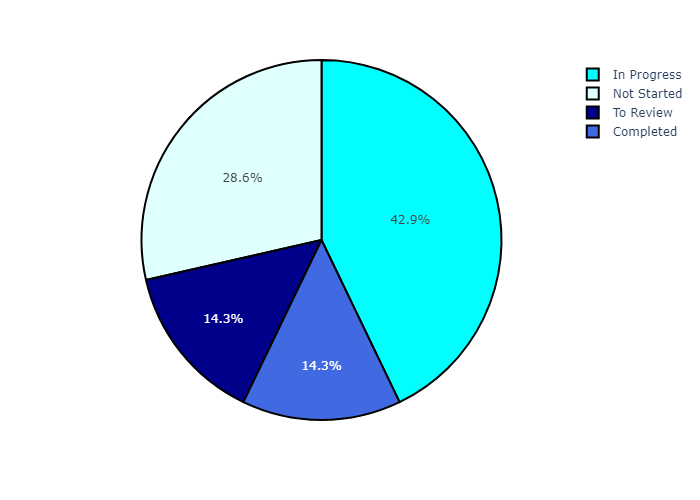
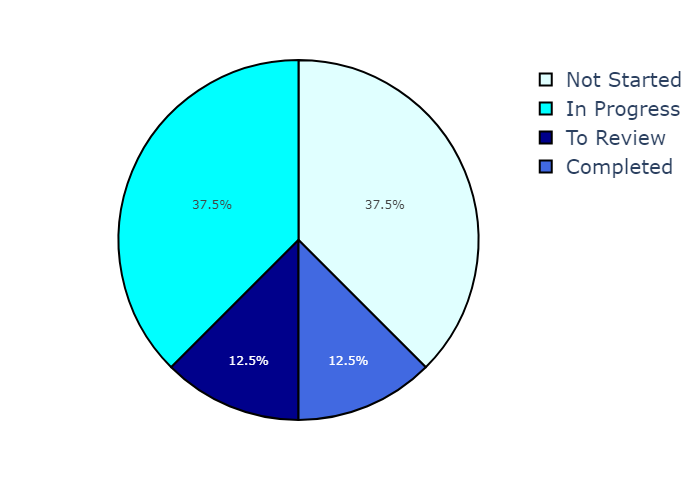
Add time and priority bar charts to dashboard

Changed region(s): [[0.15, 0.12, 0.72, 0.84], [0.75, 0.12, 0.99, 0.36]]

diff --git a/templates/dashboard.html b/templates/dashboard.html
@@ -16,14 +16,14 @@
                             <div class="card shadow mb-4">
                                 <div
                                     class="card-header py-3 d-flex flex-row align-items-center justify-content-between">
-                                    <h6 class="m-0 font-weight-bold text-primary">Earnings Overview</h6>
+                                    <h6 class="m-0 font-weight-bold text-primary">Priority Level Bar Chart</h6>
                                     <div class="dropdown no-arrow">
                                     </div>
                                 </div>
                                 <!-- Card Body -->
                                 <div class="card-body">
                                     <div class="chart-area">
-                                        <canvas id="myAreaChart"></canvas>
+                                        <img style="width:100%; height: 100%" src="static/images/priority_bar.png">
                                     </div>
                                 </div>
                             </div>
@@ -50,7 +50,7 @@
                     <div class="row">
 
                         <!-- Content Column -->
-                        <div class="col-lg-6 mb-4">
+                        <div class="col-6">
 
                             <!-- Project Card Example -->
                             <div class="card shadow mb-4">
@@ -58,36 +58,7 @@
                                     <h6 class="m-0 font-weight-bold text-primary">Projects</h6>
                                 </div>
                                 <div class="card-body">
-                                    <h4 class="small font-weight-bold">Server Migration <span
-                                            class="float-right">20%</span></h4>
-                                    <div class="progress mb-4">
-                                        <div class="progress-bar bg-danger" role="progressbar" style="width: 20%"
-                                            aria-valuenow="20" aria-valuemin="0" aria-valuemax="100"></div>
-                                    </div>
-                                    <h4 class="small font-weight-bold">Sales Tracking <span
-                                            class="float-right">40%</span></h4>
-                                    <div class="progress mb-4">
-                                        <div class="progress-bar bg-warning" role="progressbar" style="width: 40%"
-                                            aria-valuenow="40" aria-valuemin="0" aria-valuemax="100"></div>
-                                    </div>
-                                    <h4 class="small font-weight-bold">Customer Database <span
-                                            class="float-right">60%</span></h4>
-                                    <div class="progress mb-4">
-                                        <div class="progress-bar" role="progressbar" style="width: 60%"
-                                            aria-valuenow="60" aria-valuemin="0" aria-valuemax="100"></div>
-                                    </div>
-                                    <h4 class="small font-weight-bold">Payout Details <span
-                                            class="float-right">80%</span></h4>
-                                    <div class="progress mb-4">
-                                        <div class="progress-bar bg-info" role="progressbar" style="width: 80%"
-                                            aria-valuenow="80" aria-valuemin="0" aria-valuemax="100"></div>
-                                    </div>
-                                    <h4 class="small font-weight-bold">Account Setup <span
-                                            class="float-right">Complete!</span></h4>
-                                    <div class="progress">
-                                        <div class="progress-bar bg-success" role="progressbar" style="width: 100%"
-                                            aria-valuenow="100" aria-valuemin="0" aria-valuemax="100"></div>
-                                    </div>
+                                    <img style="width:100%; height: 100%" src="static/images/time_bar.png">
                                 </div>
                             </div>
 

diff --git a/graphs.py b/graphs.py
@@ -3,8 +3,64 @@ import plotly
 import plotly.express as px
 import pandas as pd
 
-def CreateBar(data):
-        pass
+def CreatePriorityBar(data):
+    priority_list = []
+    for line in data:
+        priority_list.append(line.priority)
+    priority_df = pd.DataFrame(priority_list)
+    priority_df.rename(columns={0: "priority"}, inplace=True)
+    priority_df = priority_df.priority.value_counts()
+    fig = px.bar(
+        x=priority_df.index,
+        y=priority_df.values,
+        labels=priority_df.index,
+        color=priority_df.values,
+        color_continuous_scale=px.colors.sequential.Blugrn,
+        height=350
+    )
+
+    fig.update_layout(
+        xaxis_title="Priority (10 being urgent)",
+        yaxis_title="Number of Projects",
+        xaxis_range=[1, 10],
+        yaxis_range=[1, 10],
+        coloraxis_showscale=False,
+    )
+
+    fig.update_xaxes(dtick=1)
+    fig.update_yaxes(dtick=1)
+
+    fig.write_image("static/images/priority_bar.png")
+
+
+def CreateTimeBar(data):
+    time_list = []
+    for line in data:
+        time_list.append(line.time_to_fix)
+    time_df = pd.DataFrame(time_list)
+    time_df.rename(columns={0: "time"}, inplace=True)
+    time_df = time_df.time.value_counts()
+    fig = px.bar(
+        x=time_df.index,
+        y=time_df.values,
+        labels=time_df.index,
+        color=time_df.values,
+        color_continuous_scale=px.colors.sequential.Redor,
+        height=350
+    )
+
+    fig.update_layout(
+        xaxis_title="Time to Complete (10 being very long)",
+        yaxis_title="Number of Projects",
+        xaxis_range=[1, 10],
+        yaxis_range=[1, 10],
+        coloraxis_showscale=False
+    )
+
+    fig.update_xaxes(dtick=1)
+    fig.update_yaxes(dtick=1)
+
+    fig.write_image("static/images/time_bar.png")
 
 
 def CreatePie(data):
@@ -29,5 +85,9 @@ def CreatePie(data):
     fig.update_traces(
         hoverinfo="label+percent", marker=dict(line=dict(color="#000000", width=2))
     )
+    fig.update_layout(
+        legend=dict(font=dict(size=20))
+    )
+
     fig.write_image("static/images/pie_chart.png")
 

diff --git a/main.py b/main.py
@@ -13,7 +13,7 @@ from sqlalchemy.ext.declarative import declarative_base
 from flask_login import UserMixin, login_user, LoginManager, login_required, current_user, logout_user
 from forms import AddBugForm, RegisterForm, LoginForm, CommentForm, StatusForm,\
     ProjectAssignForm, ProjectUnassignedForm, RoleAssign, EditUser
-from graphs import CreateBar, CreatePie
+from graphs import CreatePriorityBar, CreatePie, CreateTimeBar
 from flask_gravatar import Gravatar
 from functools import wraps
 from flask import abort
@@ -194,6 +194,12 @@ def dashboard():
 
     # Creating Pie Chart
     CreatePie(data=projects)
+
+    # Create Priority Bar Chart
+    CreatePriorityBar(data=projects)
+
+    # Create Time Bar Chart
+    CreateTimeBar(data=projects)
 
     return render_template("dashboard.html")
 
